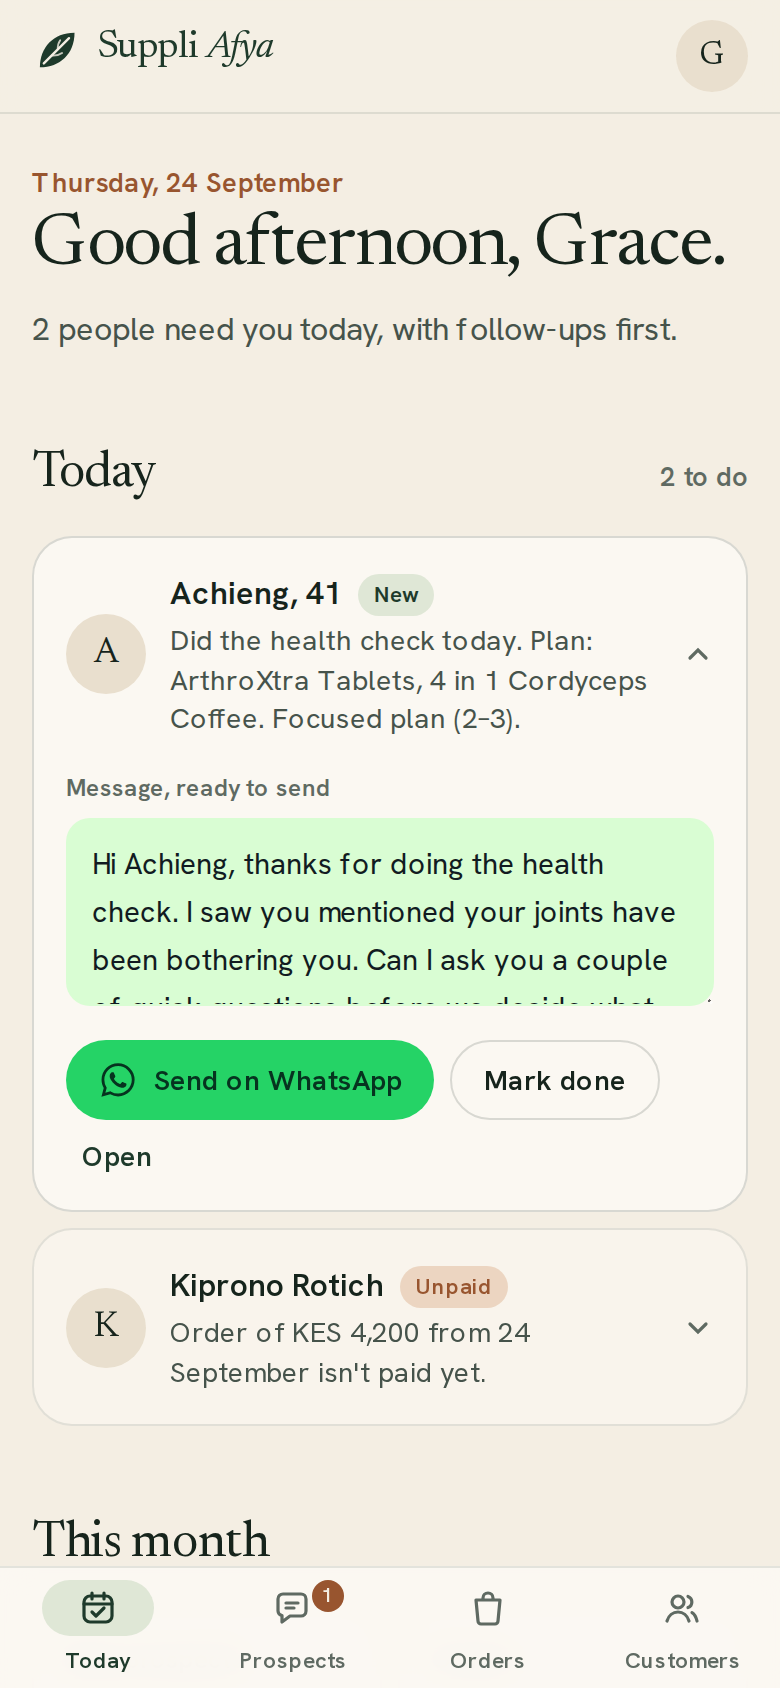
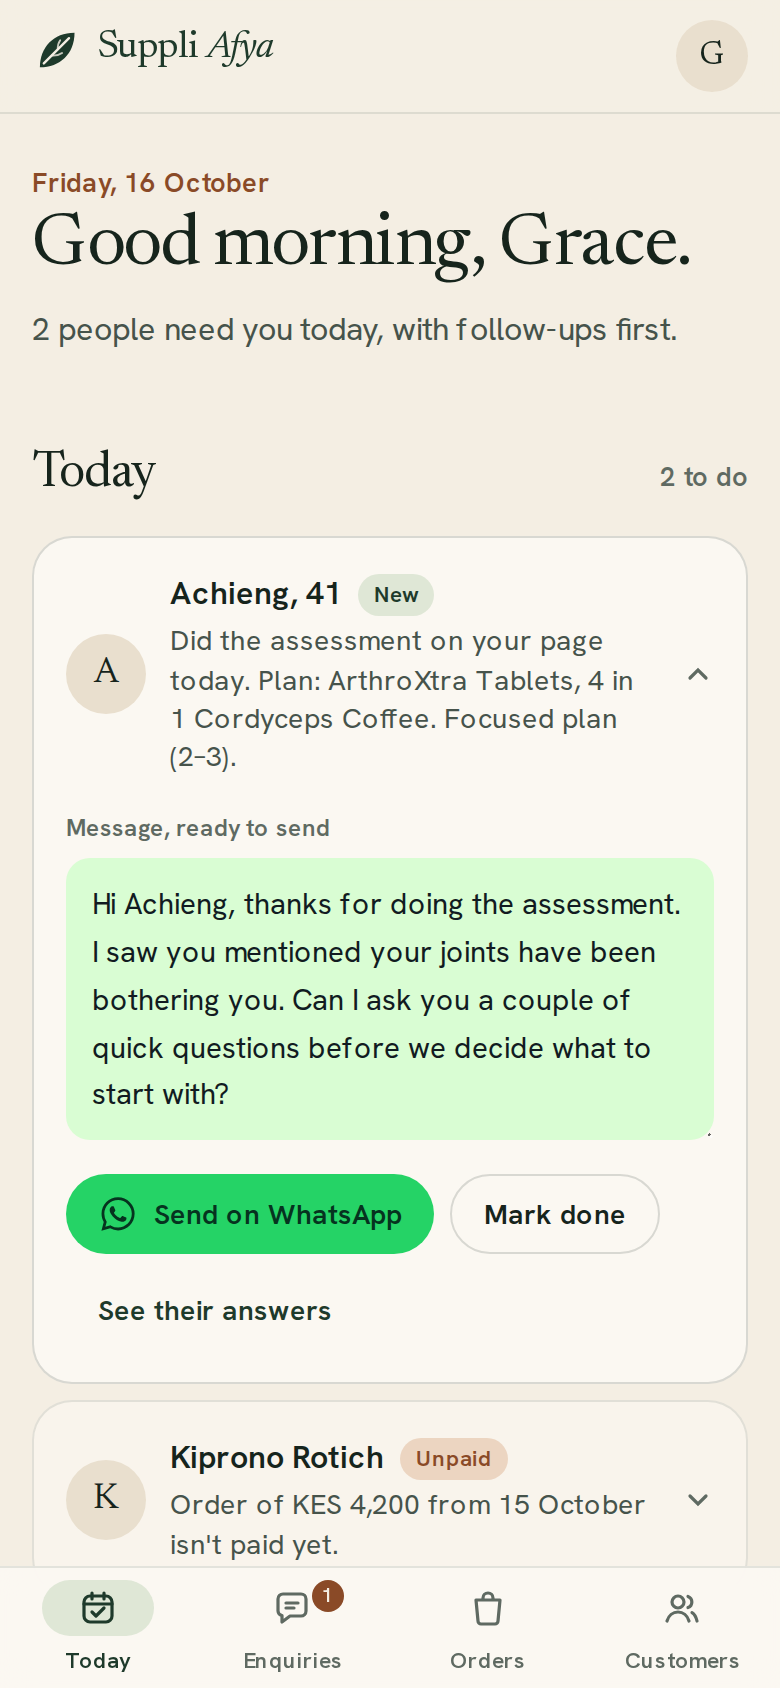
Portal: call enquiries "Enquiries", fix the QR card sheet on phones, show every filter
- The portal says "Enquiries" (nav, page, back link, stats, app shortcut), matching the website
  and docs/VOICE.md; routes and data are unchanged.
- The printable QR card sheet squeezed two cards into a phone screen, so the text ran under the
  QR code. Phones now show one card per row; the printed A4 sheet is still two across.
- Filter tabs (Enquiries, Orders) wrap instead of scrolling sideways, so no filter is hidden.
- Install-dialog screenshots regenerated with the new labels.

Claude-Session: https://claude.ai/code/session_01DWnJQLUKLasMZSiQXehRVp

diff --git a/src/app/portal/prospects/page.tsx b/src/app/portal/prospects/page.tsx
@@ -5,7 +5,7 @@ import { prospects, relative } from "@/server/portal";
 import { ShareLink } from "@/components/portal/ShareLink";
 import { Avatar, Card, Empty, PageHeader, Pill, Row, Tabs } from "@/components/portal/ui";
 
-export const metadata = { title: "Prospects" };
+export const metadata = { title: "Enquiries" };
 
 const FILTERS = [
   { id: "", label: "All" },
@@ -25,7 +25,7 @@ export default async function ProspectsPage(props: PageProps<"/portal/prospects"
   return (
     <div>
       <PageHeader
-        title="Prospects"
+        title="Enquiries"
         sub="People who did the assessment on your page and sent you their plan."
       />
       <Tabs
@@ -38,7 +38,7 @@ export default async function ProspectsPage(props: PageProps<"/portal/prospects"
       />
       {list.length === 0 ? (
         all.length === 0 ? (
-          <Empty title="No prospects yet">
+          <Empty title="No enquiries yet">
             <p>When someone does the assessment on your page and taps send, they appear here with their answers and plan.</p>
             <div className="mx-auto mt-5 max-w-md text-left">
               <ShareLink url={`${site.url}/d/${a.workspace.slug}`} displayUrl={`${site.displayDomain}/d/${a.workspace.slug}`} channels={a.workspace.channels} compact />

diff --git a/src/app/card/page.tsx b/src/app/card/page.tsx
@@ -23,11 +23,12 @@ export default async function CardSheet() {
   return (
     <main className="min-h-dvh bg-white p-6 print:p-0">
       <h1 className="sr-only">Your QR cards</h1>
-      <div className="mx-auto mb-6 flex max-w-[190mm] items-center justify-between print:hidden">
+      <div className="mx-auto mb-6 flex max-w-[190mm] flex-wrap items-center justify-between gap-3 print:hidden">
         <p className="text-[0.95rem] text-ink-soft">Ten cards per A4 sheet. Print at 100% and cut along the edges.</p>
         <PrintButton />
       </div>
-      <div className="mx-auto grid max-w-[190mm] grid-cols-2 gap-[4mm]">
+      {/* One card per row on a phone screen; the printed sheet is always two across. */}
+      <div className="mx-auto grid max-w-[90mm] grid-cols-1 gap-[4mm] sm:max-w-[190mm] sm:grid-cols-2 print:max-w-[190mm] print:grid-cols-2">
         {Array.from({ length: 10 }).map((_, i) => (
           <div key={i} className="grid h-[52mm] grid-cols-[1fr_auto] gap-3 rounded-[3mm] border border-ink/20 p-[5mm] [break-inside:avoid]">
             <div className="flex min-w-0 flex-col">

diff --git a/src/components/portal/ui.tsx b/src/components/portal/ui.tsx
@@ -75,13 +75,14 @@ export function Pill({ tone }: { tone: keyof typeof TONES }) {
 
 export function Tabs({ items, current }: { items: { href: string; label: string; count?: number }[]; current: string }) {
   return (
-    <div className="no-scrollbar -mx-4 mb-5 flex gap-1.5 overflow-x-auto px-4 sm:mx-0 sm:px-0">
+    // Wraps rather than scrolling sideways, so every filter is visible on a small phone.
+    <div className="mb-5 flex flex-wrap gap-1.5">
       {items.map((t) => (
         <Link
           key={t.href}
           href={t.href}
           className={clsx(
-            "shrink-0 rounded-full px-3.5 py-1.5 text-[0.85rem] font-semibold transition-colors",
+            "rounded-full px-3.5 py-1.5 text-[0.85rem] font-semibold transition-colors",
             t.href === current ? "bg-forest text-cream" : "bg-paper text-ink-soft hover:text-ink",
           )}
         >

diff --git a/src/app/portal/page.tsx b/src/app/portal/page.tsx
@@ -137,7 +137,7 @@ export default async function Dashboard() {
         <section>
           <h2 className="mb-3 font-display text-[1.6rem] text-ink">This month</h2>
           <div className="grid grid-cols-2 gap-2 lg:grid-cols-4">
-            <Stat label="New prospects" value={String(stats.prospects)} href="/portal/prospects" />
+            <Stat label="New enquiries" value={String(stats.prospects)} href="/portal/prospects" />
             <Stat label="Orders" value={String(stats.orders)} href="/portal/orders" />
             <Stat label="Paid" value={kesAmount(stats.paid)} href="/portal/orders?status=paid" />
             <Stat label="Reorders due soon" value={String(stats.reordersDue)} href="/portal/customers" />

diff --git a/src/app/manifest.ts b/src/app/manifest.ts
@@ -36,7 +36,7 @@ export default function manifest(): MetadataRoute.Manifest {
     shortcuts: [
       { name: "New order", url: "/portal/orders/new", icons: [{ src: "/icons/icon-192.png", sizes: "192x192" }] },
       { name: "Add a customer", url: "/portal/customers/new", icons: [{ src: "/icons/icon-192.png", sizes: "192x192" }] },
-      { name: "Prospects", url: "/portal/prospects", icons: [{ src: "/icons/icon-192.png", sizes: "192x192" }] },
+      { name: "Enquiries", url: "/portal/prospects", icons: [{ src: "/icons/icon-192.png", sizes: "192x192" }] },
     ],
   };
 }

diff --git a/src/app/portal/actions.ts b/src/app/portal/actions.ts
@@ -195,7 +195,7 @@ export async function createOrder(input: NewOrderInput): Promise<ActionResult> {
       `select id, name, phone, customer_id from prospects where workspace_id = $1 and id = $2`,
       [ws, input.prospectId],
     );
-    if (!p) return { ok: false, error: "That prospect wasn't found." };
+    if (!p) return { ok: false, error: "That enquiry wasn't found." };
     if (p.customer_id) customerId = p.customer_id;
     else {
       if (!(await withinCustomerLimit(a))) return { ok: false, error: LIMIT_ERROR };

diff --git a/src/app/portal/customers/page.tsx b/src/app/portal/customers/page.tsx
@@ -56,7 +56,7 @@ export default async function CustomersPage(props: PageProps<"/portal/customers"
             )
           }
         >
-          {!q && "Prospects become customers when you record their first order. You can also add the people who already buy from you."}
+          {!q && "Enquiries become customers when you record their first order. You can also add the people who already buy from you."}
         </Empty>
       ) : (
         <Card className="divide-y divide-ink/10 overflow-hidden">

diff --git a/src/app/portal/prospects/[id]/page.tsx b/src/app/portal/prospects/[id]/page.tsx
@@ -17,7 +17,7 @@ export default async function ProspectPage(props: PageProps<"/portal/prospects/[
   return (
     <div className="grid grid-cols-1 gap-6">
       <Link href="/portal/prospects" className="inline-flex w-fit items-center gap-1 text-[0.88rem] font-semibold text-ink-soft hover:text-ink">
-        <ChevronLeft className="h-3.5 w-3.5" /> Prospects
+        <ChevronLeft className="h-3.5 w-3.5" /> Enquiries
       </Link>
       <div>
         <div className="flex flex-wrap items-center gap-2">

diff --git a/src/components/portal/PortalShell.tsx b/src/components/portal/PortalShell.tsx
@@ -11,7 +11,7 @@ import { promptInstall, usePwa } from "@/components/pwa/store";
 
 const NAV = [
   { href: "/portal", label: "Today", icon: IconToday },
-  { href: "/portal/prospects", label: "Prospects", icon: IconProspects },
+  { href: "/portal/prospects", label: "Enquiries", icon: IconProspects },
   { href: "/portal/orders", label: "Orders", icon: IconOrders },
   { href: "/portal/customers", label: "Customers", icon: IconCustomers },
 ];
